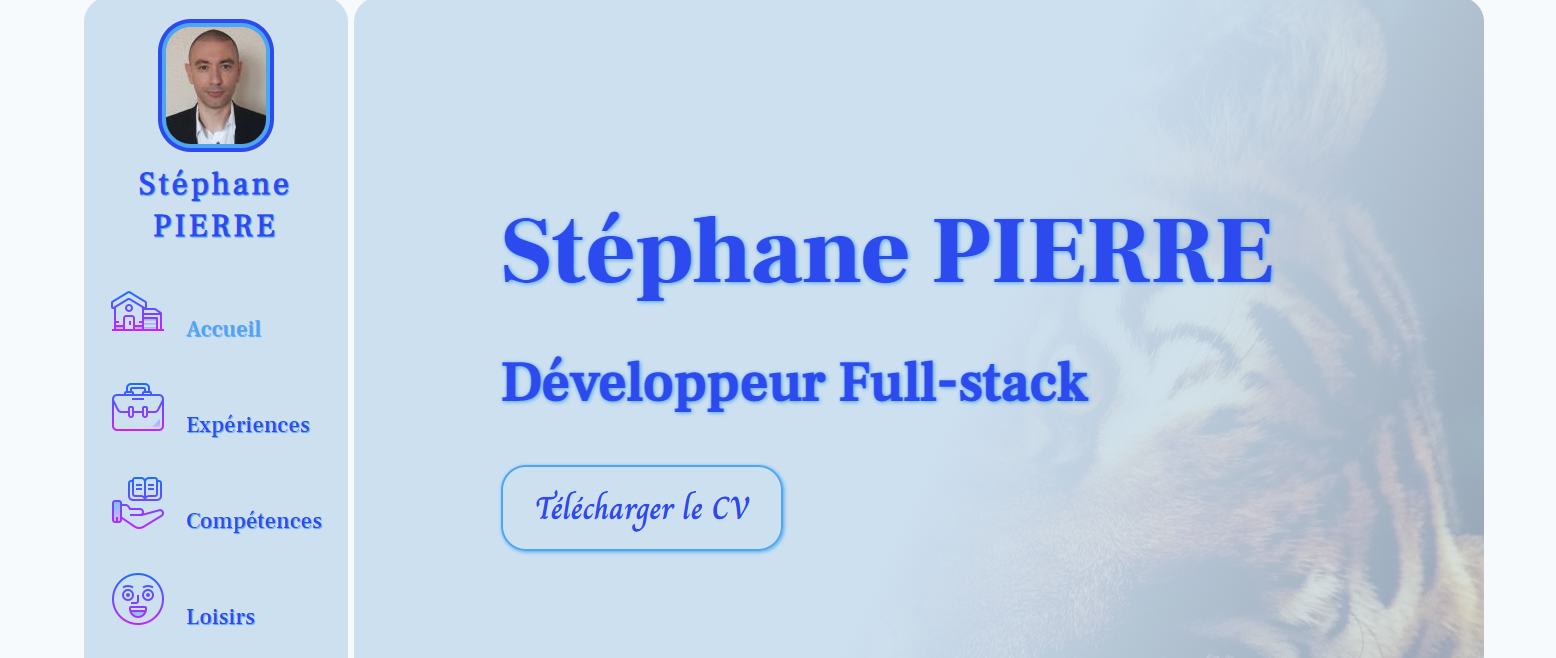
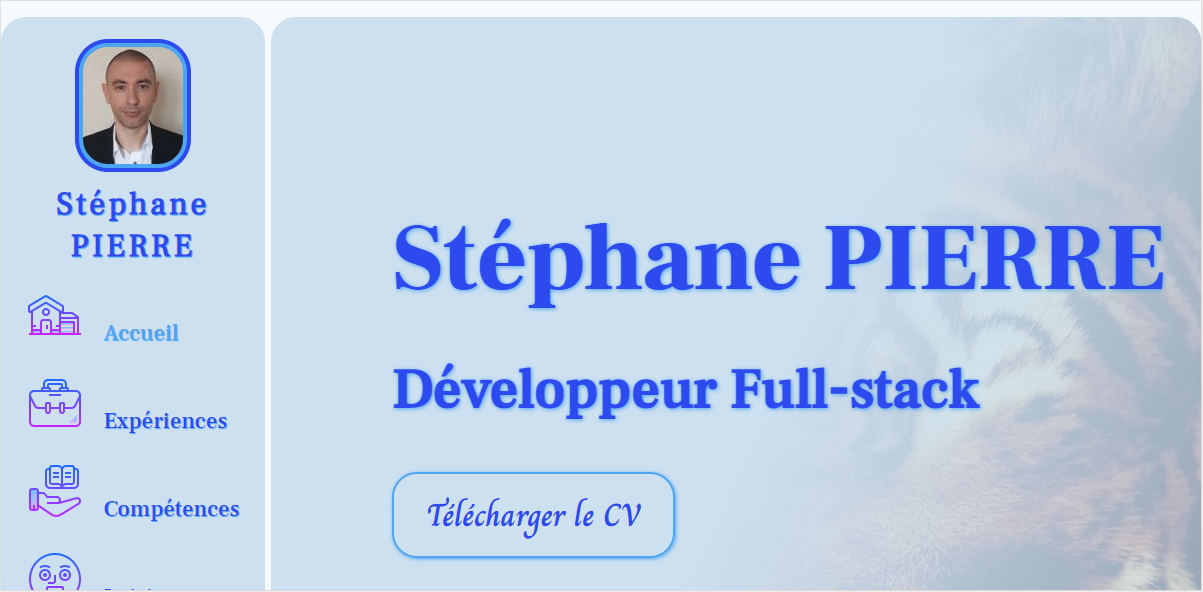
STYLE css and responsive for projects

diff --git a/src/styles/pages/_portfolio.scss b/src/styles/pages/_portfolio.scss
@@ -1,9 +1,21 @@
 .portfolioContent{
   min-height: $minHeight;
-  width: 100%;
+  display: grid;
+  grid-template-rows: 17fr 83%;
+  grid-template-areas: 
+  "1"
+  "2";
 
-  .projects, .radioDisplay{
-    position: relative;
+  @media screen and (max-width:850px) {
+    grid-template-rows: 1fr 90%;
+  }
+
+  @media screen and (max-width: 580px) {
+    grid-template-rows: 1fr 85%;
+  }
+
+
+  .radioDisplay, .project{
     overflow: hidden;
     background: $firstColor;
     border-radius: $borderRadius;
@@ -14,6 +26,7 @@
   //................... radio side ................................................
   //...............................................................................
   .radioDisplay{
+    grid-area: 1;
     display: grid;
     grid-template-columns: 1fr 1fr 1fr 1fr;
     color: $thirdColor;
@@ -127,18 +140,62 @@
   //................... projects side ................................................
   //...............................................................................
   .projects{
-   height: 100vh;
+    grid-area: 2;
+   display: grid;
+   grid-template-columns: 1fr 1fr;
+   grid-template-rows: 1fr 1fr;
+   row-gap: .4rem;
+   column-gap: .4rem;
+    .project{
+      display: grid;
+      grid-template-columns: 1fr 1fr 6%;
+      grid-template-rows: 7% 40% 1fr;
+      grid-template-areas: 
+      "I I I"
+      "T T T"
+      "P P B";
+  
 
-    .imgIcons, .imgIconPlus{
-      width: 20px;
-      height: 20px;
+      .icons{
+        grid-area: I;
+      }
+
+      h3{
+        grid-area: T;
+        align-self: center;
+      }
+
+      .imgSite{
+        grid-area: P;
+        width: 70%;
+        border-radius: 10px;
+        box-shadow: $shadow;
+        justify-self: center;
+      }
+
+      .infos{
+        grid-area: B;
+        align-self: end;
+        cursor: pointer;
+      }
+
+      .imgIcons, .imgIconPlus{
+        width: 20px;
+        height: 20px;
+        margin: .2rem;
+      }
+
     }
+  }
 
-    .imgSite{
-      width: 230px;
-      height: 120px;
+ /*........................................responsive for projects .........................*/
+
+
+  @media screen and (max-width: 850px) {
+    .projects{
+      grid-template-columns: 1fr;
+      row-gap: .2rem;
     }
-
   }
   
 }

diff --git a/src/styles/components/_navigation.scss b/src/styles/components/_navigation.scss
@@ -45,12 +45,12 @@
   }
   .navigation{
     grid-area: 2;
-    padding: 1rem 1rem;
+    padding: .5rem 1rem;
     ul{
       height: 100%;
       display: grid;
       li{
-        padding: 1rem 0 1rem .4rem;
+        padding: .5rem 0 1rem .4rem;
         font-size: map-get($fontSizeArray , for14px);
         position: relative;
         font-family: 'franckMedium';
@@ -77,7 +77,6 @@
   ul{
     display: flex;
     width: 264px;
-    padding: 0 14px;
     justify-content: space-around;
     li:hover{
       transform: translate(2px, -2px);

diff --git a/src/components/portfolio/Project.js b/src/components/portfolio/Project.js
@@ -24,7 +24,7 @@ class Project extends Component {
           )}
         </div>
         <h3>{name}</h3>
-        <img src={picture} alt="picture" onClick={this.handleInfo} className="imgSite"/>
+        <img src={picture} alt="imgSite" onClick={this.handleInfo} className="imgSite"/>
         <span className="infos" onClick={this.handleInfo}>
           <img className="imgIconPlus" src={IconPlus} alt="iconPlus"></img>
         </span>

diff --git a/src/data/portfolioData.js b/src/data/portfolioData.js
@@ -1,4 +1,3 @@
-import React from 'react';
 import FirstCv from '../media/images/monPremierCv.PNG';
 import IconHtml from '../media/images/icons/icon-html.png';
 import IconCss from '../media/images/icons/icon-css.png';
